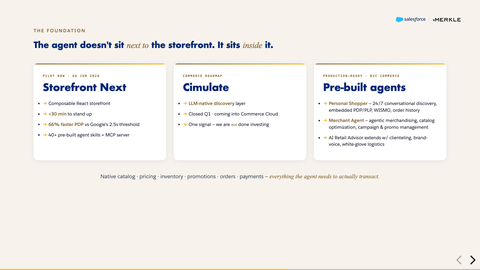
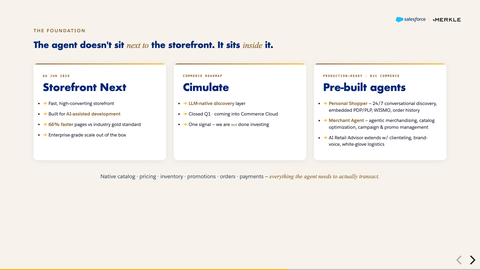
Storefront Next: Carolyn override — drop <30min + React/MCP jargon, 'industry gold standard', AI-assisted dev

diff --git a/cnx-2026-talk-track.html b/cnx-2026-talk-track.html
@@ -297,7 +297,7 @@ body { font-family: var(--font-body); background: var(--bg); color: var(--text);
       <p>The agent doesn't sit next to the storefront. <em>It sits inside it.</em></p>
       <p>That's the architectural difference. Catalog, pricing, inventory, promotions, orders, payments — every piece the agent needs to actually transact lives natively in Commerce Cloud. Most "AI commerce agents" sit on top of the storefront. Ours runs inside it.</p>
       <p>This is where the commerce innovations I teed up earlier actually land. Three of them matter for what you just saw —</p>
-      <p><strong>Storefront Next</strong> — GA at this conference. Composable, agentic-first storefront. <strong>Under 30 minutes</strong> to stand one up. <strong>Product pages load 66% faster</strong> than Google's recommended 2.5-second threshold — directly moves conversion and SEO. Replatforming a luxury site is now a sprint, not a multi-quarter program.</p>
+      <p><strong>Storefront Next</strong> — GA at this conference. A fast, high-converting storefront, built for AI-assisted development. <strong>Product pages load 66% faster</strong> than the industry gold standard — directly moves conversion and SEO. Replatforming a luxury site is a sprint, not a multi-quarter program.</p>
       <p><strong>Cimulate</strong> — we closed this acquisition in Q1, now coming into Commerce Cloud as our LLM-native discovery layer. When a shopper types <em>"a navy blazer for a Kyoto wedding,"</em> the site understands intent and responds with the right product, not a dead-end search.</p>
       <p><strong>Pre-built B2C agents</strong> — production-ready. <strong>Personal Shopper</strong> on the customer side, <strong>Merchant Agent</strong> on the merchandiser side. AI Retail Advisor extends both with the luxury layer Tony walked through.</p>
       <p style="font-style:italic;color:#0047D4">No middleware. Native pipe. Commerce-as-platform, not commerce-as-bolt-on.</p>

diff --git a/cnx-2026-agentic-luxury.html b/cnx-2026-agentic-luxury.html
@@ -744,13 +744,13 @@
 
       <div class="cc-grid">
         <div class="cc-card">
-          <div class="cc-card__chip">PILOT NOW · GA JUN 2026</div>
+          <div class="cc-card__chip">GA JUN 2026</div>
           <div class="cc-card__title">Storefront Next</div>
           <ul class="cc-card__list">
-            <li>Composable React storefront</li>
-            <li><strong>&lt;30 min</strong> to stand up</li>
-            <li><strong>66% faster PDP</strong> vs Google's 2.5s threshold</li>
-            <li>40+ pre-built agent skills + MCP server</li>
+            <li>Fast, high-converting storefront</li>
+            <li>Built for <strong>AI-assisted development</strong></li>
+            <li><strong>66% faster</strong> pages vs industry gold standard</li>
+            <li>Enterprise-grade scale out of the box</li>
           </ul>
         </div>
 
